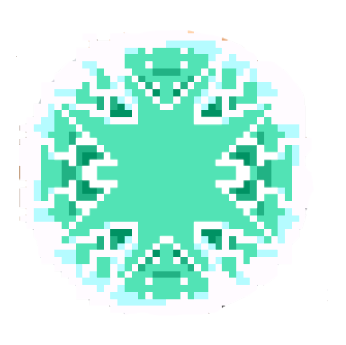
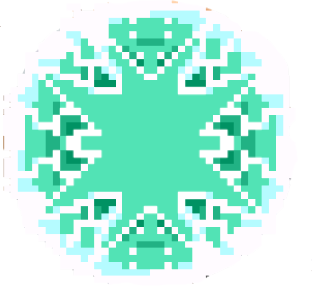
結尾

diff --git a/gamescene.cpp b/gamescene.cpp
@@ -27,6 +27,7 @@ GameScene::GameScene(Game *g) : QGraphicsScene(g), game(g) {
     oneUpCollected = false;
     gameOverSelection = 0;
     deathTimer = 0;
+    clearStep = 0;
 
     // 載入 HUD 素材
     hpFullPix  = loadAndScale(":/Dataset/item/HP_1.png");
@@ -911,21 +912,40 @@ void GameScene::confirmGameOverSelection(Game *g) {
 void GameScene::showClearScreen() {
     clearStage();
     setSceneRect(0, 0, WINDOW_WIDTH, WINDOW_HEIGHT);
-    setBackgroundBrush(QBrush(QColor(255, 223, 128)));
+    clearStep = 0; // 剛進通關畫面，設為步數 0
 
-    // 簡單的通關畫面
-    QGraphicsTextItem *text = new QGraphicsTextItem("STAGE CLEAR!");
-    text->setDefaultTextColor(Qt::white);
-    QFont font("Arial", 72, QFont::Bold);
-    text->setFont(font);
-    text->setPos(WINDOW_WIDTH / 2 - 300, WINDOW_HEIGHT / 2 - 80);
-    text->setZValue(10);
-    addItem(text);
+    // 載入第一張通關圖片 CLEAR.jpg
+    QPixmap clearPix = loadPix(":/Dataset/background/CLEAR.jpg");
+    clearPix = clearPix.scaled(WINDOW_WIDTH, WINDOW_HEIGHT, Qt::IgnoreAspectRatio, Qt::SmoothTransformation);
 
-    QGraphicsTextItem *sub = new QGraphicsTextItem("Press any key to continue...");
-    sub->setDefaultTextColor(Qt::white);
-    sub->setFont(QFont("Arial", 24));
-    sub->setPos(WINDOW_WIDTH / 2 - 200, WINDOW_HEIGHT / 2 + 80);
-    sub->setZValue(10);
-    addItem(sub);
+    clearBg = new QGraphicsPixmapItem(clearPix);
+    clearBg->setPos(0, 0);
+    clearBg->setZValue(0);
+    addItem(clearBg);
+}
+
+// 🌟 新增：Enter 推進通關畫面的核心處理函數
+void GameScene::advanceClearScreen(Game *g) {
+    if (clearStep == 0) {
+        // 目前是 CLEAR.jpg -> 切換成 last1.jpg
+        QPixmap pix1 = loadPix(":/Dataset/background/last1.png");
+        pix1 = pix1.scaled(WINDOW_WIDTH, WINDOW_HEIGHT, Qt::IgnoreAspectRatio, Qt::SmoothTransformation);
+        if (clearBg) {
+            clearBg->setPixmap(pix1);
+        }
+        clearStep = 1;
+    }
+    else if (clearStep == 1) {
+        // 目前是 last1.jpg -> 切換成 last2.jpg
+        QPixmap pix2 = loadPix(":/Dataset/background/last2.png");
+        pix2 = pix2.scaled(WINDOW_WIDTH, WINDOW_HEIGHT, Qt::IgnoreAspectRatio, Qt::SmoothTransformation);
+        if (clearBg) {
+            clearBg->setPixmap(pix2);
+        }
+        clearStep = 2;
+    }
+    else if (clearStep == 2) {
+        // 目前是 last2.jpg -> 再按一次 Enter 直接關閉視窗結束遊戲
+        qApp->quit();
+    }
 }

diff --git a/enemy.cpp b/enemy.cpp
@@ -237,13 +237,20 @@ Sparky::Sparky(double sx, double sy, double pMinX, double pMaxX)
     jumpTimer = 60;
     onGround = true;
 
-    spr_walk_L1 = loadAndScale(":/Dataset/Sparky/Sparky_left_1.png");
-    spr_walk_L2 = loadAndScale(":/Dataset/Sparky/Sparky_left_2.png");
-    spr_walk_R1 = loadAndScale(":/Dataset/Sparky/Sparky_ritht_1.png"); // 原始檔名有 typo
-    spr_walk_R2 = loadAndScale(":/Dataset/Sparky/Sparky_ritht_2.png");
+    // 1. 先載入 attack1 作為「基準尺寸」
     spr_attack1 = loadAndScale(":/Dataset/Sparky/Sparky_attack_1.png");
-    spr_attack2 = loadAndScale(":/Dataset/Sparky/Sparky_attack_2.png");
 
+    // 2. 獲取並儲存 attack1 的尺寸
+    QSize targetSize = spr_attack1.size();
+
+    // 3. 載入其他圖片時，直接在後面串接 .scaled() 強制縮放為 targetSize
+    spr_attack2 = loadAndScale(":/Dataset/Sparky/Sparky_attack_2.png").scaled(targetSize, Qt::IgnoreAspectRatio, Qt::FastTransformation);
+
+    spr_walk_L1 = loadAndScale(":/Dataset/Sparky/Sparky_left_1.png").scaled(targetSize, Qt::IgnoreAspectRatio, Qt::FastTransformation);
+    spr_walk_L2 = loadAndScale(":/Dataset/Sparky/Sparky_left_2.png").scaled(targetSize, Qt::IgnoreAspectRatio, Qt::FastTransformation);
+
+    spr_walk_R1 = loadAndScale(":/Dataset/Sparky/Sparky_ritht_1.png").scaled(targetSize, Qt::IgnoreAspectRatio, Qt::FastTransformation);
+    spr_walk_R2 = loadAndScale(":/Dataset/Sparky/Sparky_ritht_2.png").scaled(targetSize, Qt::IgnoreAspectRatio, Qt::FastTransformation);
     setPixmap(spr_walk_R1);
 }
 
@@ -323,7 +330,7 @@ bool Sparky::isSparking() const {
 
 QRectF Sparky::getSparkBox() const {
     if (!isAttacking) return QRectF();
-    double expand = 60;
+    double expand = 30;
     return QRectF(x() - expand, y() - expand,
                   pixmap().width() + expand * 2,
                   pixmap().height() + expand * 2);

diff --git a/game.cpp b/game.cpp
@@ -51,8 +51,10 @@ void Game::keyPressEvent(QKeyEvent *event) {
 
     // Clear 畫面按任意鍵回選單
     if (currentState == STATE_CLEAR) {
-        restartFromMenu();
-        return;
+        if (event->key() == Qt::Key_Return || event->key() == Qt::Key_Enter) {
+            scene->advanceClearScreen(this);
+        }
+        return; // 攔截 Enter 與其他所有按鍵，使其在通關狀態下不影響遊戲
     }
 
     QGraphicsView::keyPressEvent(event);

diff --git a/gamescene.h b/gamescene.h
@@ -38,6 +38,7 @@ public:
     void showMenuScreen();
     void showGameOverScreen();
     void showClearScreen();
+    void advanceClearScreen(Game *game);
     void toggleGameOverSelection();
     void confirmGameOverSelection(Game *game);
 
@@ -90,6 +91,7 @@ private:
 
     // 死亡/重生計時
     int deathTimer;
+    int clearStep;
 
     // 圖片載入
     QPixmap loadPix(const QString &path);
